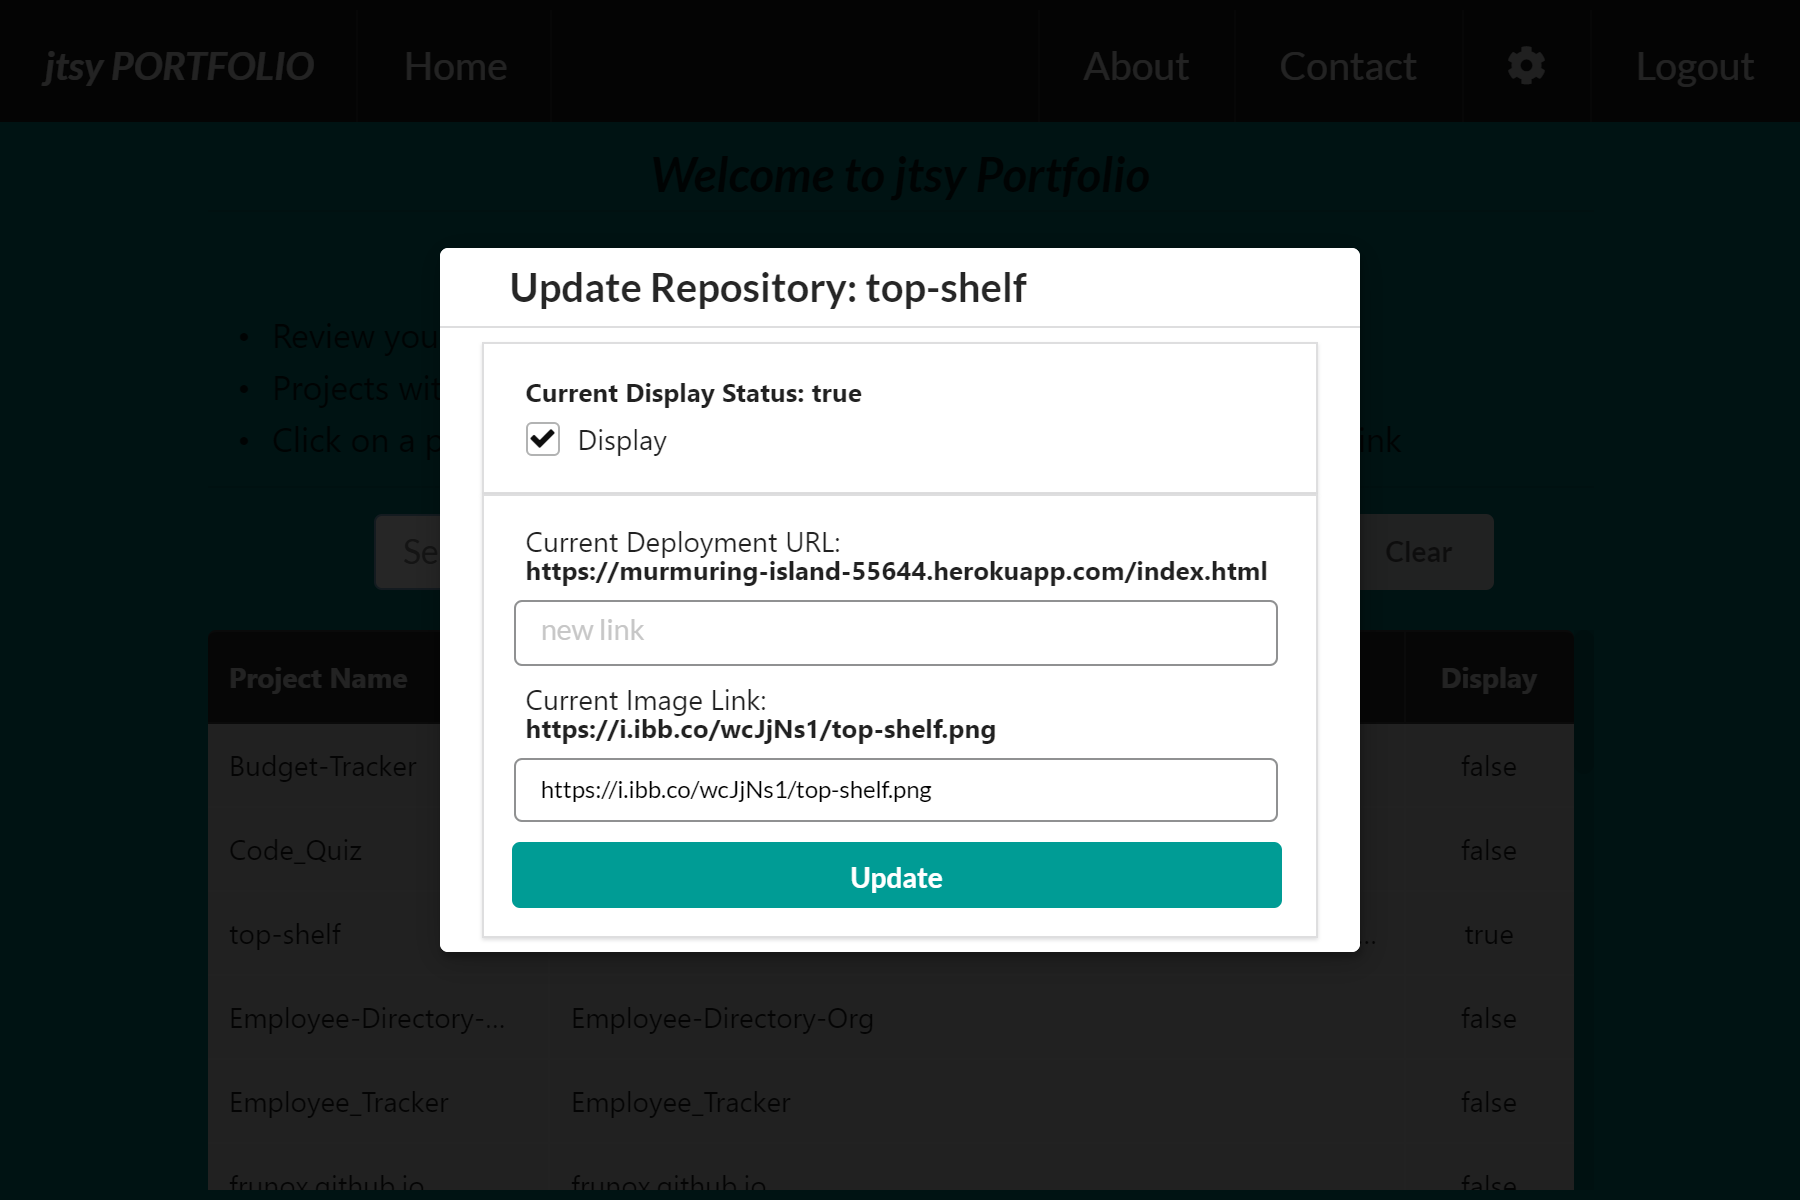
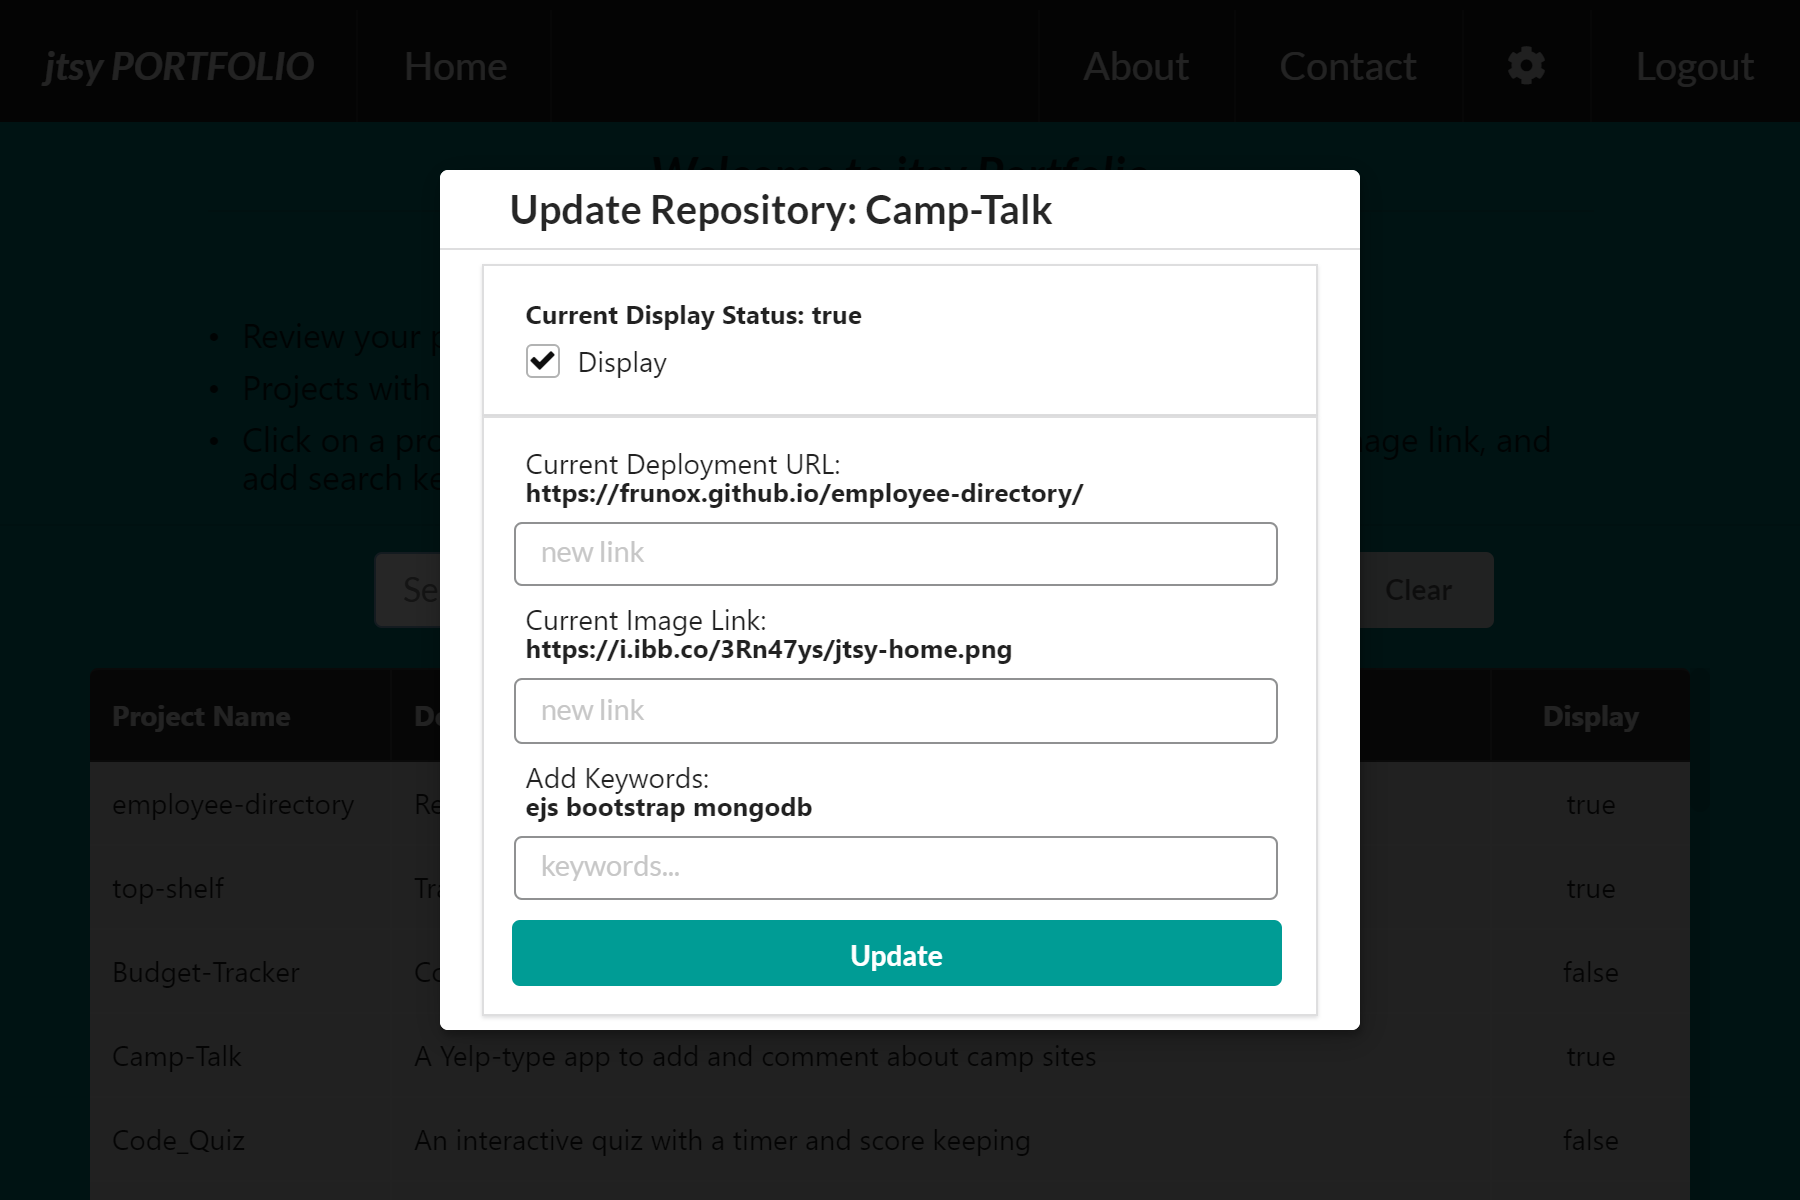
update readme - keywords

diff --git a/README.md b/README.md
@@ -61,7 +61,7 @@ Once you have created an account or signed in, you will see a list of your GitHu
 
 #### Project Dialog
 
-When a project is selected by clicking on it's row in the table, a modal dialog appears that allows the user to change the display status, deployment link, or image link to be included on the home page.
+When a project is selected by clicking on it's row in the table, a modal dialog appears that allows the user to change the display status, deployment link, or image link to be included on the home page. Keywords can be added to enhance the search functionality.
 
 <img src="client/src/assets/jtsy-project-modal.png" alt="Project Dialog">
 
